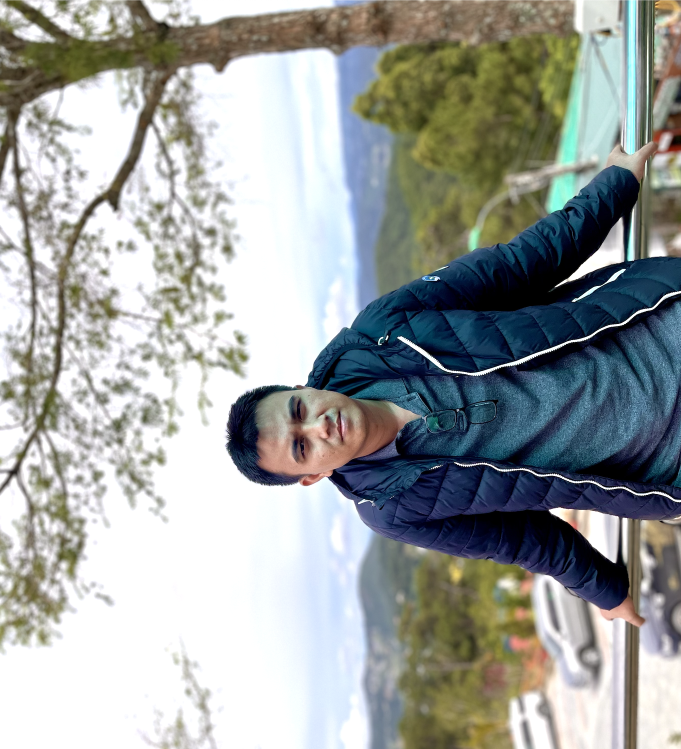
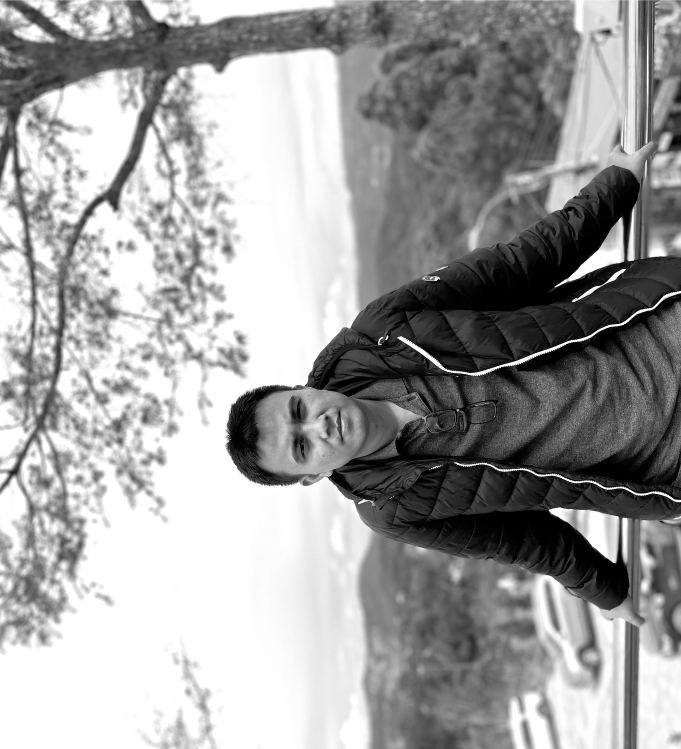
add opencv_02

diff --git a/opencv/opencv_01.py b/opencv/opencv_01.py
@@ -2,6 +2,7 @@
 OpenCV Python Tutorial
 
 Covered in this #1 (Introduction & Images)
+https://docs.opencv.org/4.8.0/df/d9d/tutorial_py_colorspaces.html 
     1. Installation & Setup 
     2. Loading an Image
     3. Displaying an Image
@@ -9,7 +10,7 @@ Covered in this #1 (Introduction & Images)
     5. Rotating an Image
 '''
 
-import cv2
+import cv2 as cv
 
 try:
     ''' 
@@ -17,14 +18,14 @@ try:
     0: cv2.IMREAD_GRAYSCALE
     1: cv2.IMREAD_UNCHANGED
     '''
-    img = cv2.imread('../assets/images/Me_2023-07-24_DL.png', 1)
+    img = cv.imread('../assets/images/Me_2023-07-24_DL.png', cv.IMREAD_GRAYSCALE)
     
-    img = cv2.resize(img, (0, 0), fx=0.5, fy=0.5)
-    img = cv2.rotate(img, cv2.ROTATE_90_COUNTERCLOCKWISE)
-    cv2.imwrite('../assets/images/NEW_Me_2023-07-24_DL.png', img)
+    img = cv.resize(img, (0, 0), fx=0.5, fy=0.5)
+    img = cv.rotate(img, cv.ROTATE_90_COUNTERCLOCKWISE)
+    cv.imwrite('../assets/images/NEW_Me_2023-07-24_DL.png', img)
     
-    cv2.imshow('levantrungits', img)
-    cv2.waitKey(0) # wait for a keyboard input
+    cv.imshow('levantrungits', img)
+    cv.waitKey(0) # wait for a keyboard input
     
 except Exception as ex:
     # Need lib: opencv-python-headless-4.8.0.76
@@ -32,4 +33,4 @@ except Exception as ex:
     #   size.width>0 && size.height>0 in function 'imshow'
     print(f"Error: {ex}")
     
-cv2.destroyAllWindows()
+cv.destroyAllWindows()

diff --git a/opencv/opencv_02.py b/opencv/opencv_02.py
@@ -1,12 +1,41 @@
 '''
 OpenCV Python Tutorial
 
-Covered in this #2 (Image Fundamentals and Manipulation)
+Covered in this #2 (Image Fundamentals and Manipulation):
     1. Image Representation
     2. Values that Represent our Pixels
     3. Accessing Pixel Values
     4. Changing Pixel Colors
     5. Copying & Pasting Parts of Image
+
+Pixel in Image:
+    blue green red
+    [0,  0,    0]
+    0-255
 '''
 
-import cv2
+import cv2 as cv
+import random
+
+try:
+    img = cv.imread('../assets/images/Me_2023-07-24_DL.png', cv.IMREAD_COLOR) # numpy.ndarray
+    print(f"img.shape \n {img.shape}") # (row, column, channels(D))
+    print(f"img[0] \n {img[257]}") # row 257
+    print(f"img[257][45:400] \n {img[257][45:400]}")
+    
+    # random and replace Pixels
+    for i in range(100):
+        for j in range(img.shape[1]):
+            img[i][j] = [random.randint(0, 255), random.randint(0, 255), random.randint(0, 255)]
+            
+    # copy and replace Pixels
+    tag = img[400:700, 600:900]
+    img[100:300, 650:950] = tag
+
+    cv.imshow('levantrungits', img)
+    cv.waitKey(0)
+    
+except Exception as ex:
+    print(f"Error: {ex}")
+
+cv.destroyAllWindows()
